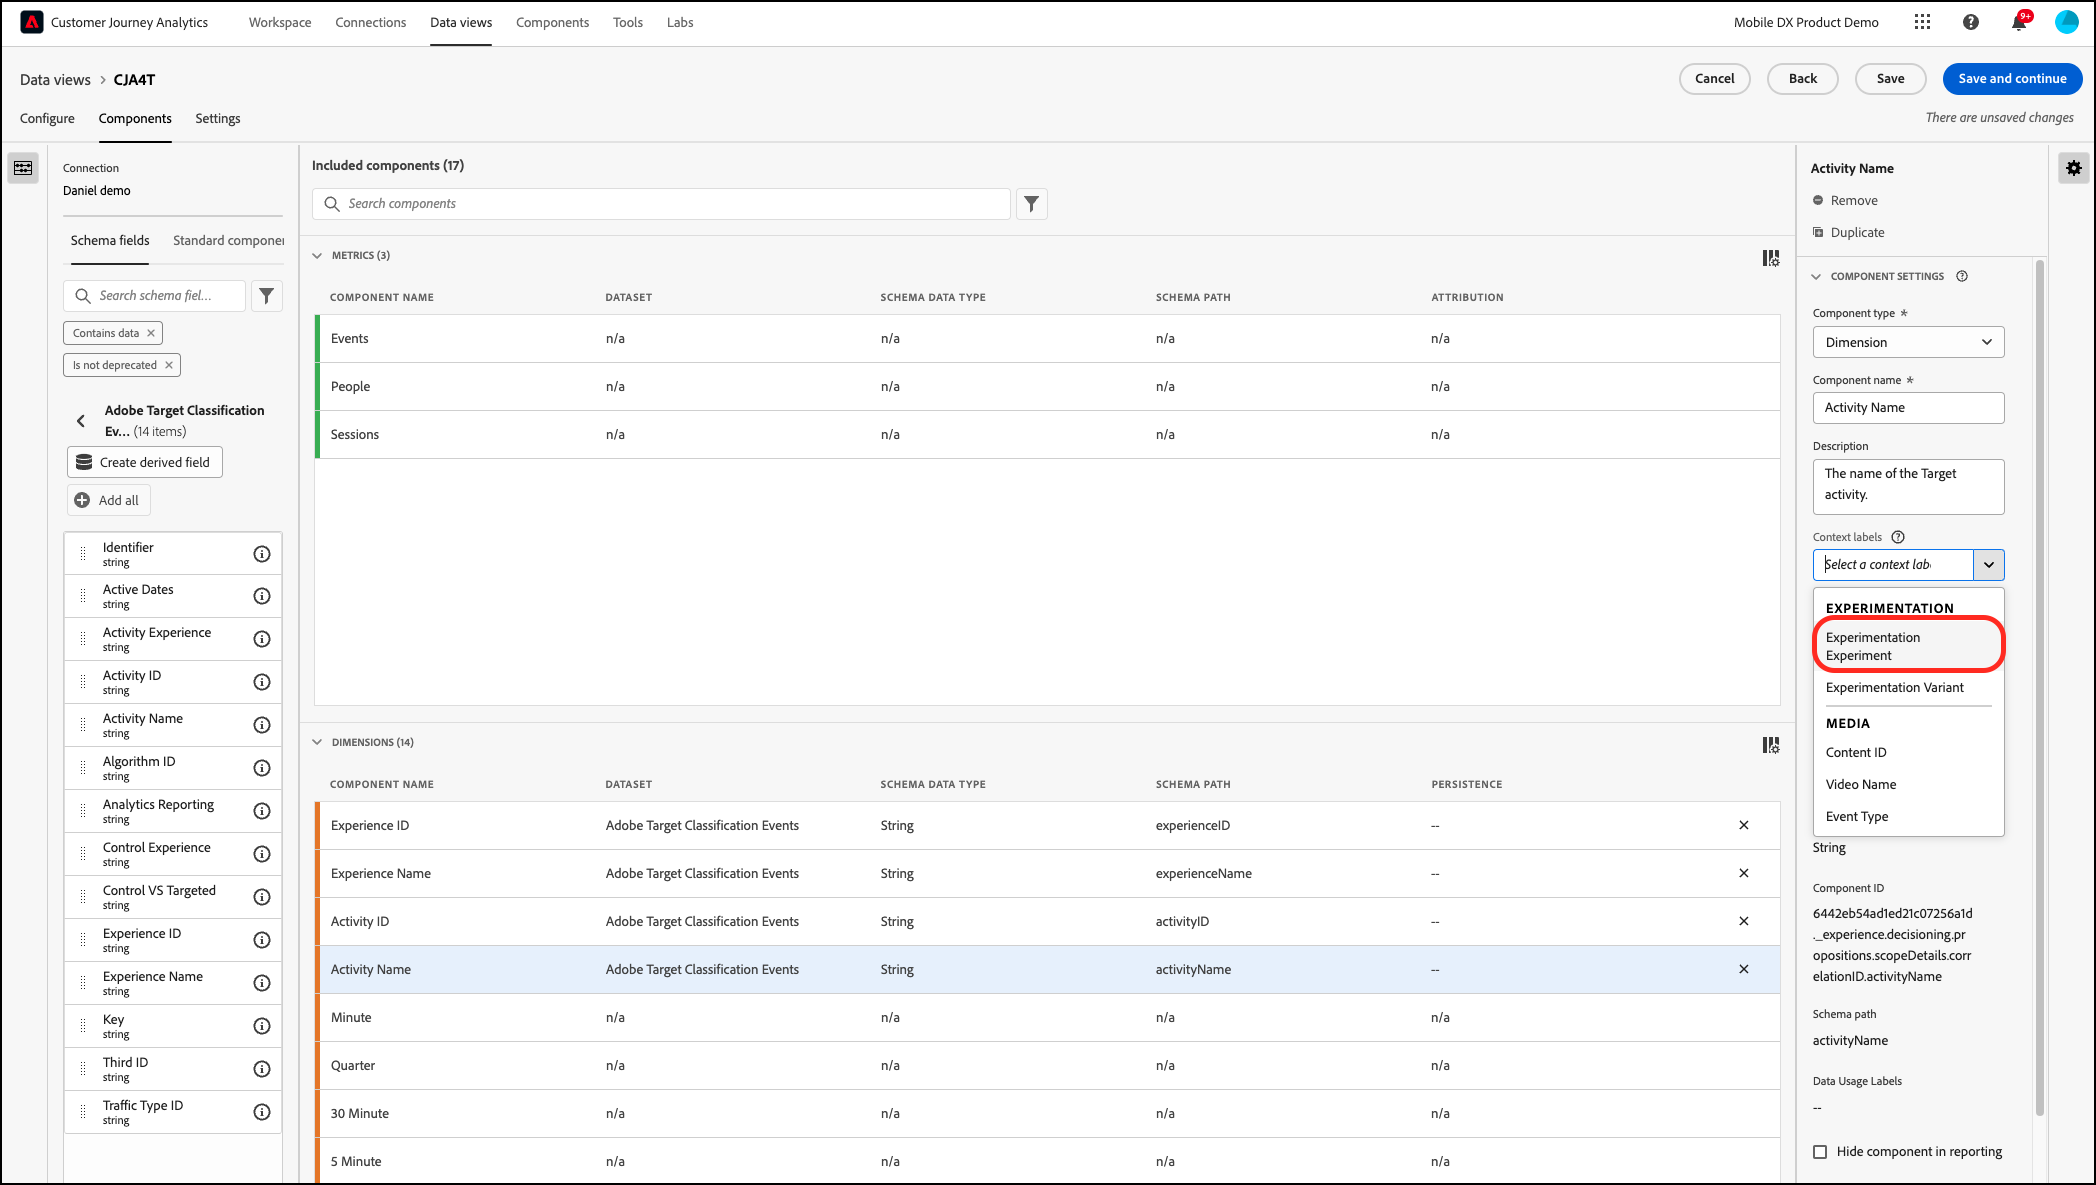
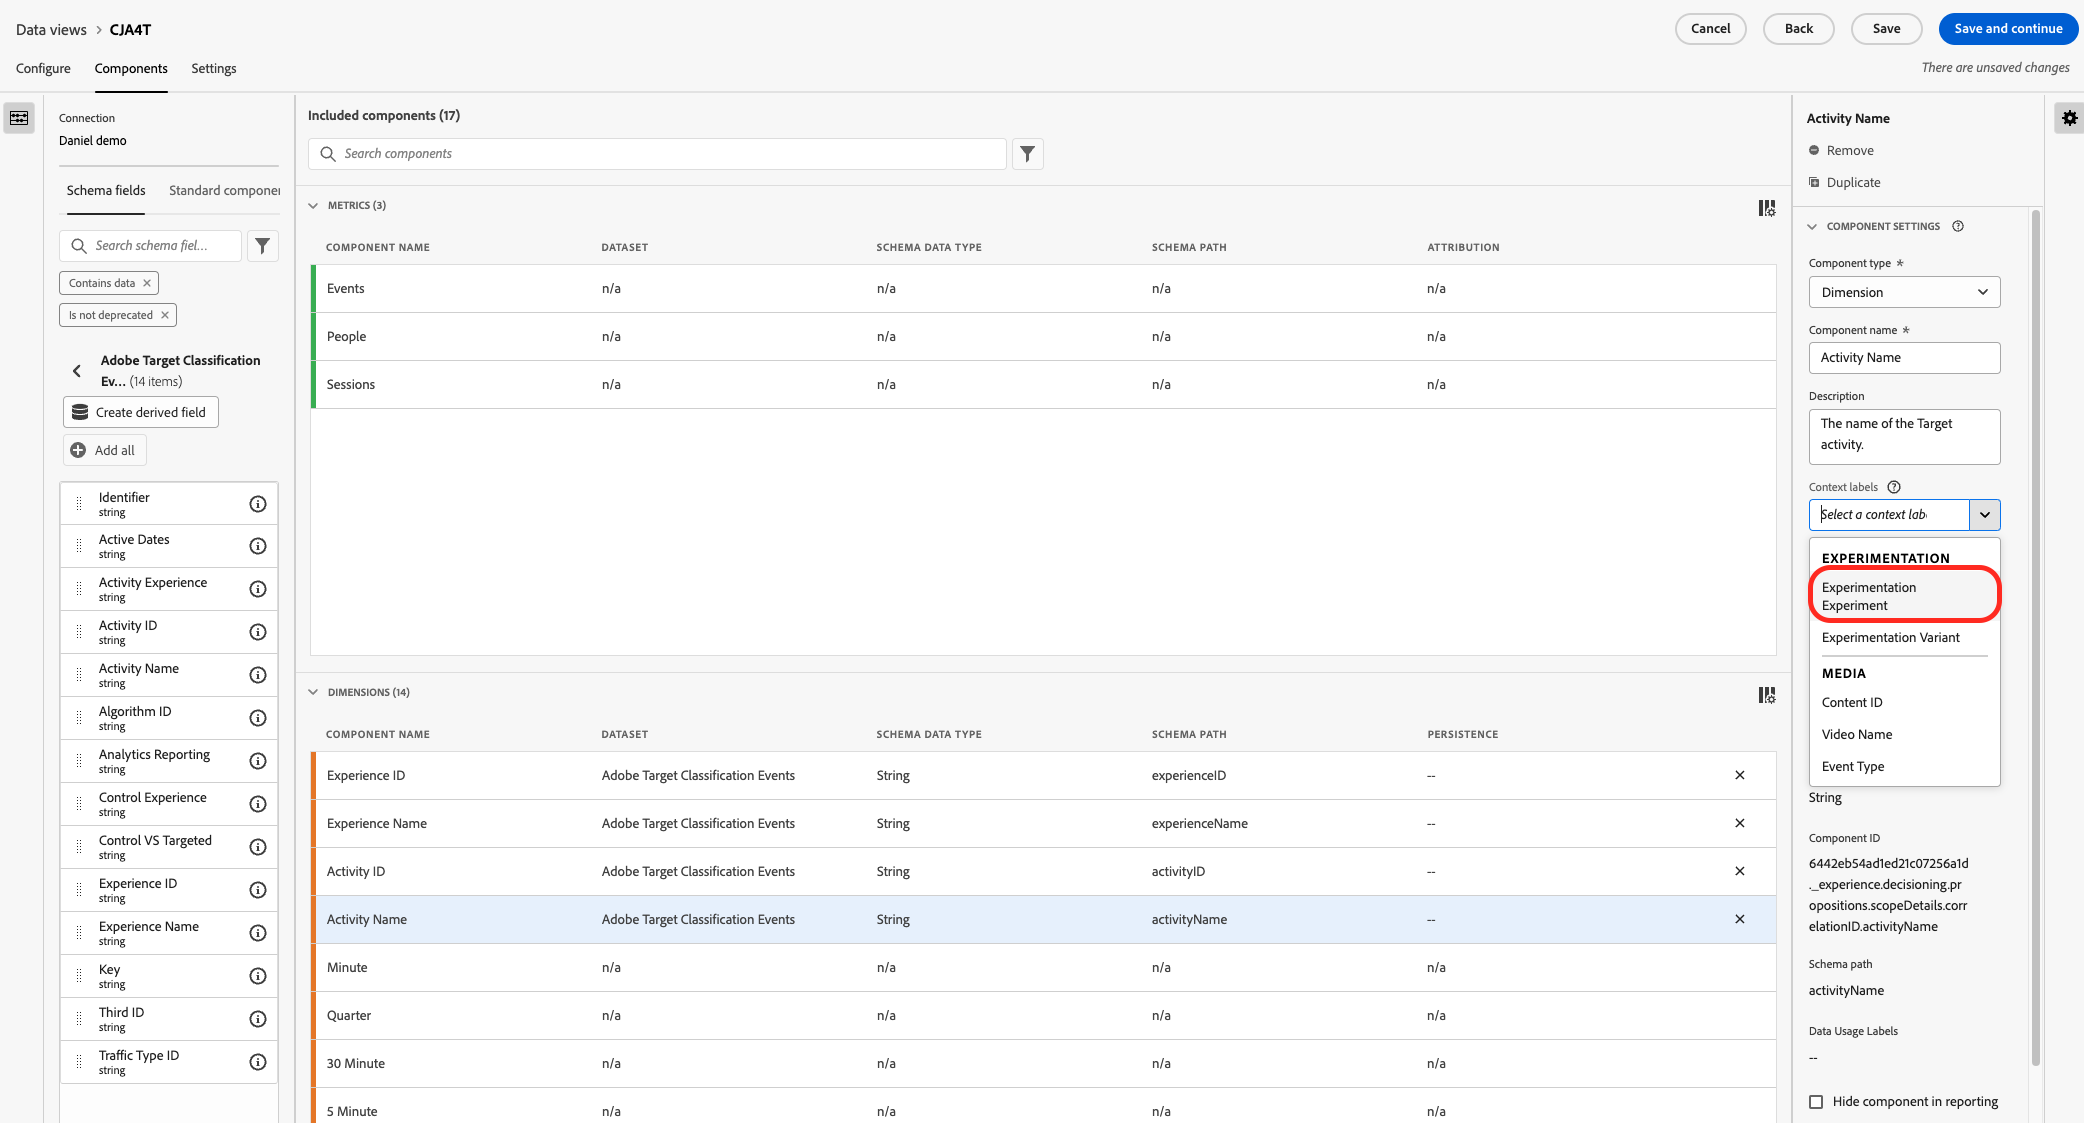
update

diff --git a/help/main/c-integrating-target-with-mac/cja/target-reporting-in-cja.md b/help/main/c-integrating-target-with-mac/cja/target-reporting-in-cja.md
@@ -164,7 +164,13 @@ Set up a data view in [!DNL Customer Journey Analytics]. A data view ensures tha
    * [!UICONTROL Activity Name]
    * [!UICONTROL Activity ID]
 
-   ![Names and IDs options in Customer Journey Analytics](/help/main/c-integrating-target-with-mac/cja/assets/names-and-ids.png){width="600" zoomable="yes"}
+    ![Names and IDs options in Customer Journey Analytics](/help/main/c-integrating-target-with-mac/cja/assets/names-and-ids.png){width="600" zoomable="yes"}
+
+1. To ensure that [!DNL Customer Journey Analytics] attributes metrics to the correct [!DNL Target] experience across the visitor journey, configure persistence for the [!UICONTROL Activity Name] and [!UICONTROL Activity ID] dimensions.
+
+   Without persistence configured, [!DNL Customer Journey Analytics] links only metrics that occur on the same event as the [!DNL Target] experience. For example, if a visitor sees a Target experience on the homepage, that visitor's revenue metric from a purchase on a later page is not attributed to the Target activity.
+
+   For more information about persistence, refer to [Adobe Customer Journey Analytics documentation](https://experienceleague.adobe.com/en/docs/analytics-platform/using/cja-dataviews/component-settings/persistence){target=_blank}.
 
 1. To use [!DNL Target] dimensions in the [!UICONTROL Experimentation] panel, set up the following context labels:
 